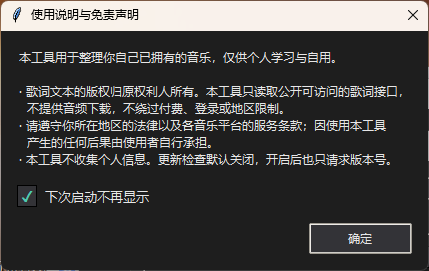
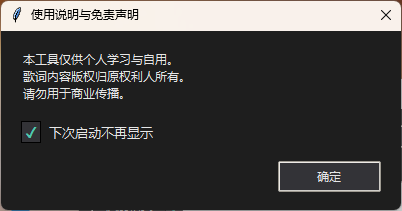
免责声明精简为三句（v1.8.1）
弹窗文案改为：本工具仅供个人学习与自用 / 歌词内容版权归原权利人所有 / 请勿用于商业传播。去掉后果自负式措辞和硬折行，窗口给 400px 下限宽度避免挤成窄条。

diff --git a/lrc_gui.py b/lrc_gui.py
@@ -180,12 +180,9 @@ def open_with_notepad(path: Path) -> bool:
 
 
 DISCLAIMER_TEXT = (
-    "本工具用于整理你自己已拥有的音乐，仅供个人学习与自用。\n\n"
-    "· 歌词文本的版权归原权利人所有。本工具只读取公开可访问的歌词接口，\n"
-    "  不提供音频下载，不绕过付费、登录或地区限制。\n"
-    "· 请遵守你所在地区的法律以及各音乐平台的服务条款；因使用本工具\n"
-    "  产生的任何后果由使用者自行承担。\n"
-    "· 本工具不收集个人信息。更新检查默认关闭，开启后也只请求版本号。"
+    "本工具仅供个人学习与自用。\n"
+    "歌词内容版权归原权利人所有。\n"
+    "请勿用于商业传播。"
 )
 
 
@@ -200,19 +197,22 @@ class DisclaimerDialog(tk.Toplevel):
         self.transient(master)
         self.on_done = on_done
 
-        wrap = ttk.Frame(self, padding=16)
+        wrap = ttk.Frame(self, padding=(20, 18))
         wrap.pack(fill="both", expand=True)
         ttk.Label(wrap, text=DISCLAIMER_TEXT, justify="left",
                   foreground=FG).pack(anchor="w")
         self.no_show_var = tk.BooleanVar(value=True)
         CheckItem(wrap, text="下次启动不再显示", variable=self.no_show_var).pack(
-            anchor="w", pady=(14, 0))
+            anchor="w", pady=(16, 0))
 
         bar = ttk.Frame(wrap)
-        bar.pack(fill="x", pady=(14, 0))
+        bar.pack(fill="x", pady=(16, 0))
         ttk.Button(bar, text="确定", command=self._accept).pack(side="right")
         self.protocol("WM_DELETE_WINDOW", self._accept)
         self.bind("<Escape>", lambda _event: self._accept())
+        # 文案很短，给个下限宽度，免得窗口挤成一条
+        self.update_idletasks()
+        self.geometry(f"{max(400, self.winfo_reqwidth())}x{self.winfo_reqheight()}")
         self.grab_set()
 
     def _accept(self) -> None:

diff --git a/version.py b/version.py
@@ -5,4 +5,4 @@ GUI 标题、`--version`、更新检查和打包脚本都从这里读，
 避免界面、exe 名称和 GitHub tag 三处写死后互相对不上。
 """
 
-__version__ = "1.8.0"
+__version__ = "1.8.1"

diff --git a/CHANGELOG.md b/CHANGELOG.md
@@ -2,6 +2,10 @@
 
 日期以开题为准，版本号对应 GitHub Release 的 tag。
 
+## v1.8.1
+
+- 免责声明精简为三句：个人学习与自用、歌词版权归原权利人、请勿商业传播（去掉冗长的解释与折行）
+
 ## v1.8.0
 
 - 不勾“仅预览”时，成功生成的歌词也提供“已生成：xxx.lrc（点击预览）”入口
